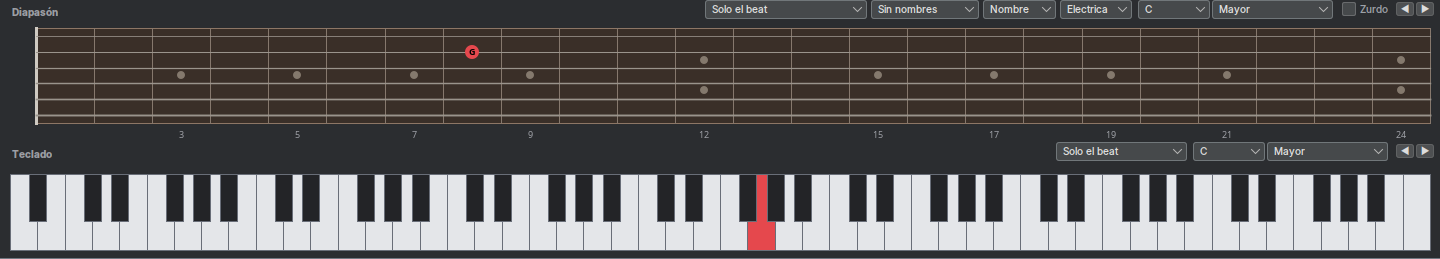
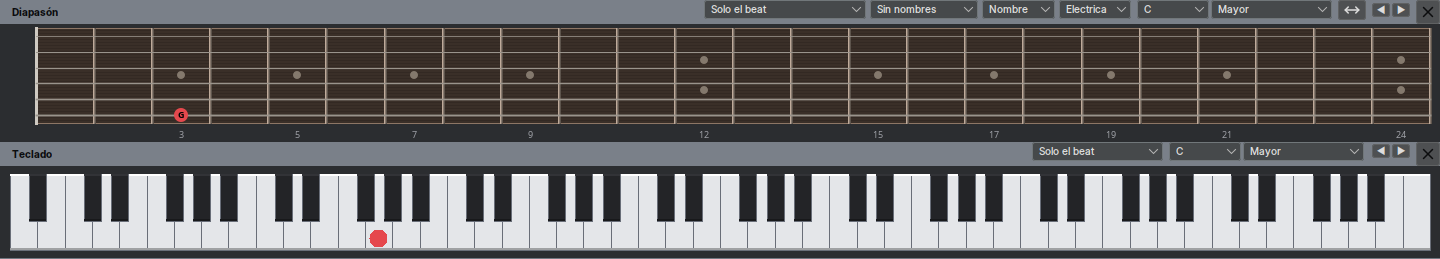
docs(readme): README y capturas con la segunda tanda de la etapa visual (#152)
* docs(readme): el README describe la mesa de mezcla, la vista global, el diapason, el teclado y el zoom de la segunda tanda visual

La mesa de mezcla paso de perillas a deslizadores con caja numerica y numero
plano para chorus/reverb/phaser/tremolo, con S y M junto al numero de pista;
la vista global sumo la regla de compases, los marcadores en rojo y las
celdas plateadas de los compases vacios; el zoom es un combo editable en vez
de botones; un selector numerado salta entre pistas; el diapason y el
teclado tienen veta, trastes metalicos, bisel y se cierran con su propia X;
los marcadores se editan desde el compas del cursor; y la barra de estado
queda descripta con sus seis paneles. El README todavia hablaba de perillas
y de un zoom sin describir su control.

Claude-Session: https://claude.ai/code/session_01MgGDWYuyaroMrgLB5derfq

* docs(capturas): las cuatro capturas del README muestran la segunda tanda de la etapa visual

Se regeneraron con el mismo metodo de los PR #42 y #131: MainFrame real con
Theme.install(), la partitura de ejemplo Zamba del arrabal (Guitarra y Bajo,
con P.M., let ring, hammer-on y bend) e impresion sobre un BufferedImage. Ya
se ve la mesa de mezcla con deslizadores y numeros planos, la vista global
con regla de compases y marcadores en rojo, el diapason con veta y trastes
metalicos, el teclado con bisel, y las bandas de titulo con la X de cerrar.

Claude-Session: https://claude.ai/code/session_01MgGDWYuyaroMrgLB5derfq
[…]

diff --git a/README.md b/README.md
@@ -19,13 +19,15 @@ un instrumento MIDI conectado.
 
 **Una partitura tiene todas las pistas que quieras**, cada una con su afinación,
 su cantidad de cuerdas, su capo y su instrumento. Podés verlas todas juntas o de
-a una, y apagar desde la mesa de mezcla las que molestan. Si le cambiás la
-cantidad de cuerdas a una pista, las notas se transponen a la afinación nueva en
-vez de perderse: una línea de banjo se convierte en una de guitarra.
+a una —saltando entre ellas con el selector numerado de la barra— y apagar desde
+la mesa de mezcla las que molestan. Si le cambiás la cantidad de cuerdas a una
+pista, las notas se transponen a la afinación nueva en vez de perderse: una
+línea de banjo se convierte en una de guitarra.
 
 **La partitura se ve como sale impresa.** Hay modo página con su hoja, márgenes,
 encabezado y pie; modo pergamino sin cortes; y dos modos de pantalla que usan
-todo el espacio disponible. Con zoom del 30% al 200%.
+todo el espacio disponible. Con zoom del 30% al 200%, en un combo editable de la
+barra con los valores predefinidos del manual.
 
 ![La partitura tal como se imprime](docs/capturas/hoja.png)
 
@@ -62,9 +64,9 @@ adorno, digitación de las dos manos, texto libre y diagramas de acordes.
 
 Y la estructura del compás: repeticiones con su conteo, finales alternativos,
 doble barra, direcciones musicales (Coda, Segno, Fine y los catorce saltos),
-marcadores, octavas (8va, 8vb, 15ma y 15mb, que cambian dónde se escribe la nota
-sin tocar cómo suena), y saltos de línea forzados o impedidos para maquetar la
-hoja.
+marcadores —se editan desde el compás del cursor, sin abrir la lista completa—,
+octavas (8va, 8vb, 15ma y 15mb, que cambian dónde se escribe la nota sin tocar
+cómo suena), y saltos de línea forzados o impedidos para maquetar la hoja.
 
 ## El diapasón y el teclado
 
@@ -74,7 +76,10 @@ Marcan las notas del beat y escriben al clic. Se ajustan solos a la afinación, 
 capo y a la cantidad de cuerdas de la pista activa. Muestran el beat solo, el
 compás, el próximo beat, el último diagrama de acorde o la escala elegida —y para
 las notas de la escala podés ver el nombre, el intervalo o el grado. Cuatro tipos
-de diapasón, zurdo o diestro, y la nota que está bajo el mouse.
+de diapasón, zurdo o diestro, y la nota que está bajo el mouse. El diapasón
+tiene veta de madera y trastes metálicos; el teclado, teclas con bisel y la
+nota marcada con un punto. Cada uno se cierra con la ✕ de su propia banda de
+título.
 
 También podés colorear las cabezas de nota según su intensidad, para leer la
 dinámica de un vistazo, elegir qué barras de herramientas ves y cuáles no, e
@@ -86,10 +91,12 @@ intercambiar de lugar la partitura y la mesa de mezcla.
 
 Puerto, los dos canales de la pista —el suyo y el de sus efectos, para que un bend
 no le corra la afinación a las notas limpias—, instrumento General MIDI —o kit de
-batería, si la pista es de percusión—, volumen, paneo, chorus, reverb, phaser,
-trémolo, silenciar y solo. Todo editable mientras suena. Al lado, la vista global:
-una fila de color por pista, un cuadradito por compás y la zona de marcadores,
-para saltar a cualquier parte de un clic.
+batería, si la pista es de percusión—, volumen y paneo con deslizador y caja
+numérica, chorus, reverb, phaser y trémolo como número plano, y silenciar y solo
+junto al número de cada pista. Todo editable mientras suena. Al lado, la vista
+global: una fila de color por pista, la regla de compases, los marcadores en
+rojo y un cuadradito plateado en cada compás sin notas, para saltar a cualquier
+parte de un clic.
 
 ## Las herramientas
 
@@ -112,14 +119,17 @@ de los compases.
 ## Accesibilidad
 
 **Todo se maneja sin mouse.** Los menús y los formularios se navegan por
-mnemónico (`Alt` + la letra subrayada); las perillas de la mesa de mezcla, el
-diapasón, el teclado, la grilla de la vista global, los marcadores, el
+mnemónico (`Alt` + la letra subrayada); los deslizadores de la mesa de mezcla,
+el diapasón, el teclado, la grilla de la vista global, los marcadores, el
 asistente de percusión, los bends y el afinador se operan por teclado y
 muestran el foco. Desde la partitura, `Ctrl+F6` le cede el foco al resto de la
 ventana.
 
 **Todo control tiene nombre y descripción accesibles**, además de su tooltip,
-para que un lector de pantalla lo anuncie aunque no lleve texto.
+para que un lector de pantalla lo anuncie aunque no lleve texto. La barra de
+estado, abajo de todo, separa página, posición, estado y duración del compás,
+pista, y título y autor en seis paneles con relieve propio, cada uno con su
+nombre.
 
 **Las dos paletas, clara y oscura, cumplen el contraste WCAG AA.**
 `Preferencias > Accesibilidad` suma tamaño de letra ajustable, alto contraste
